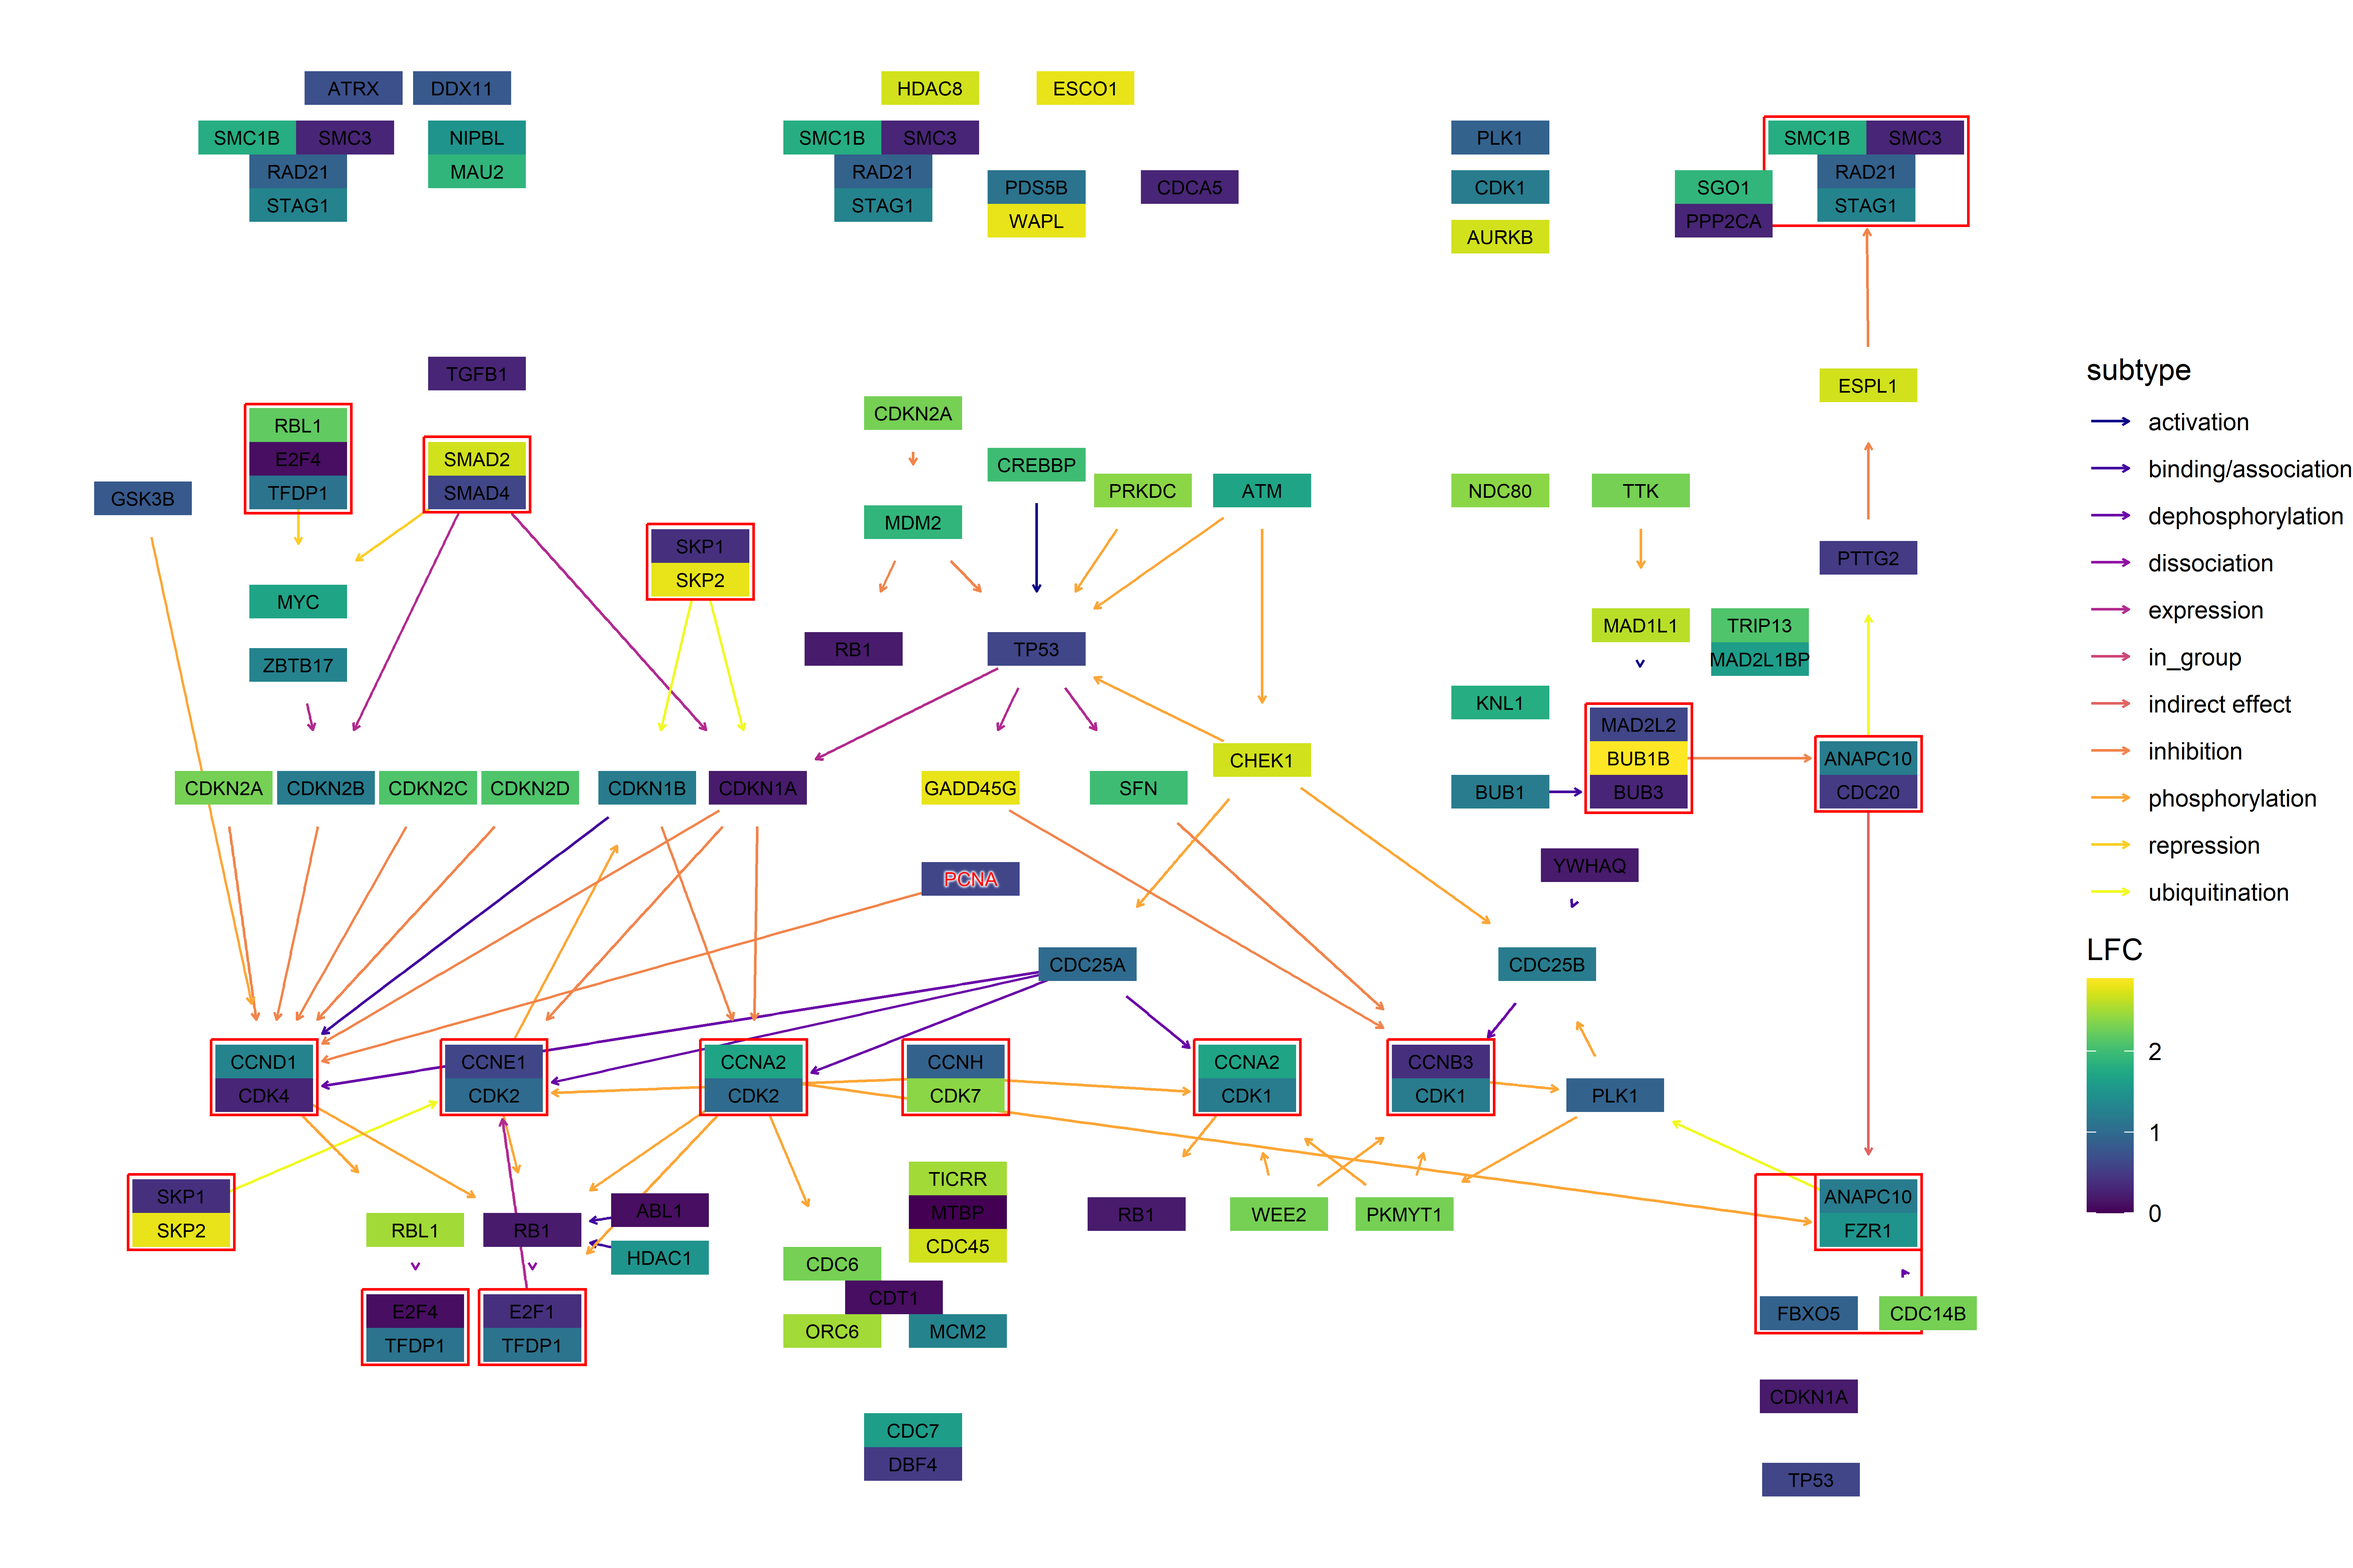
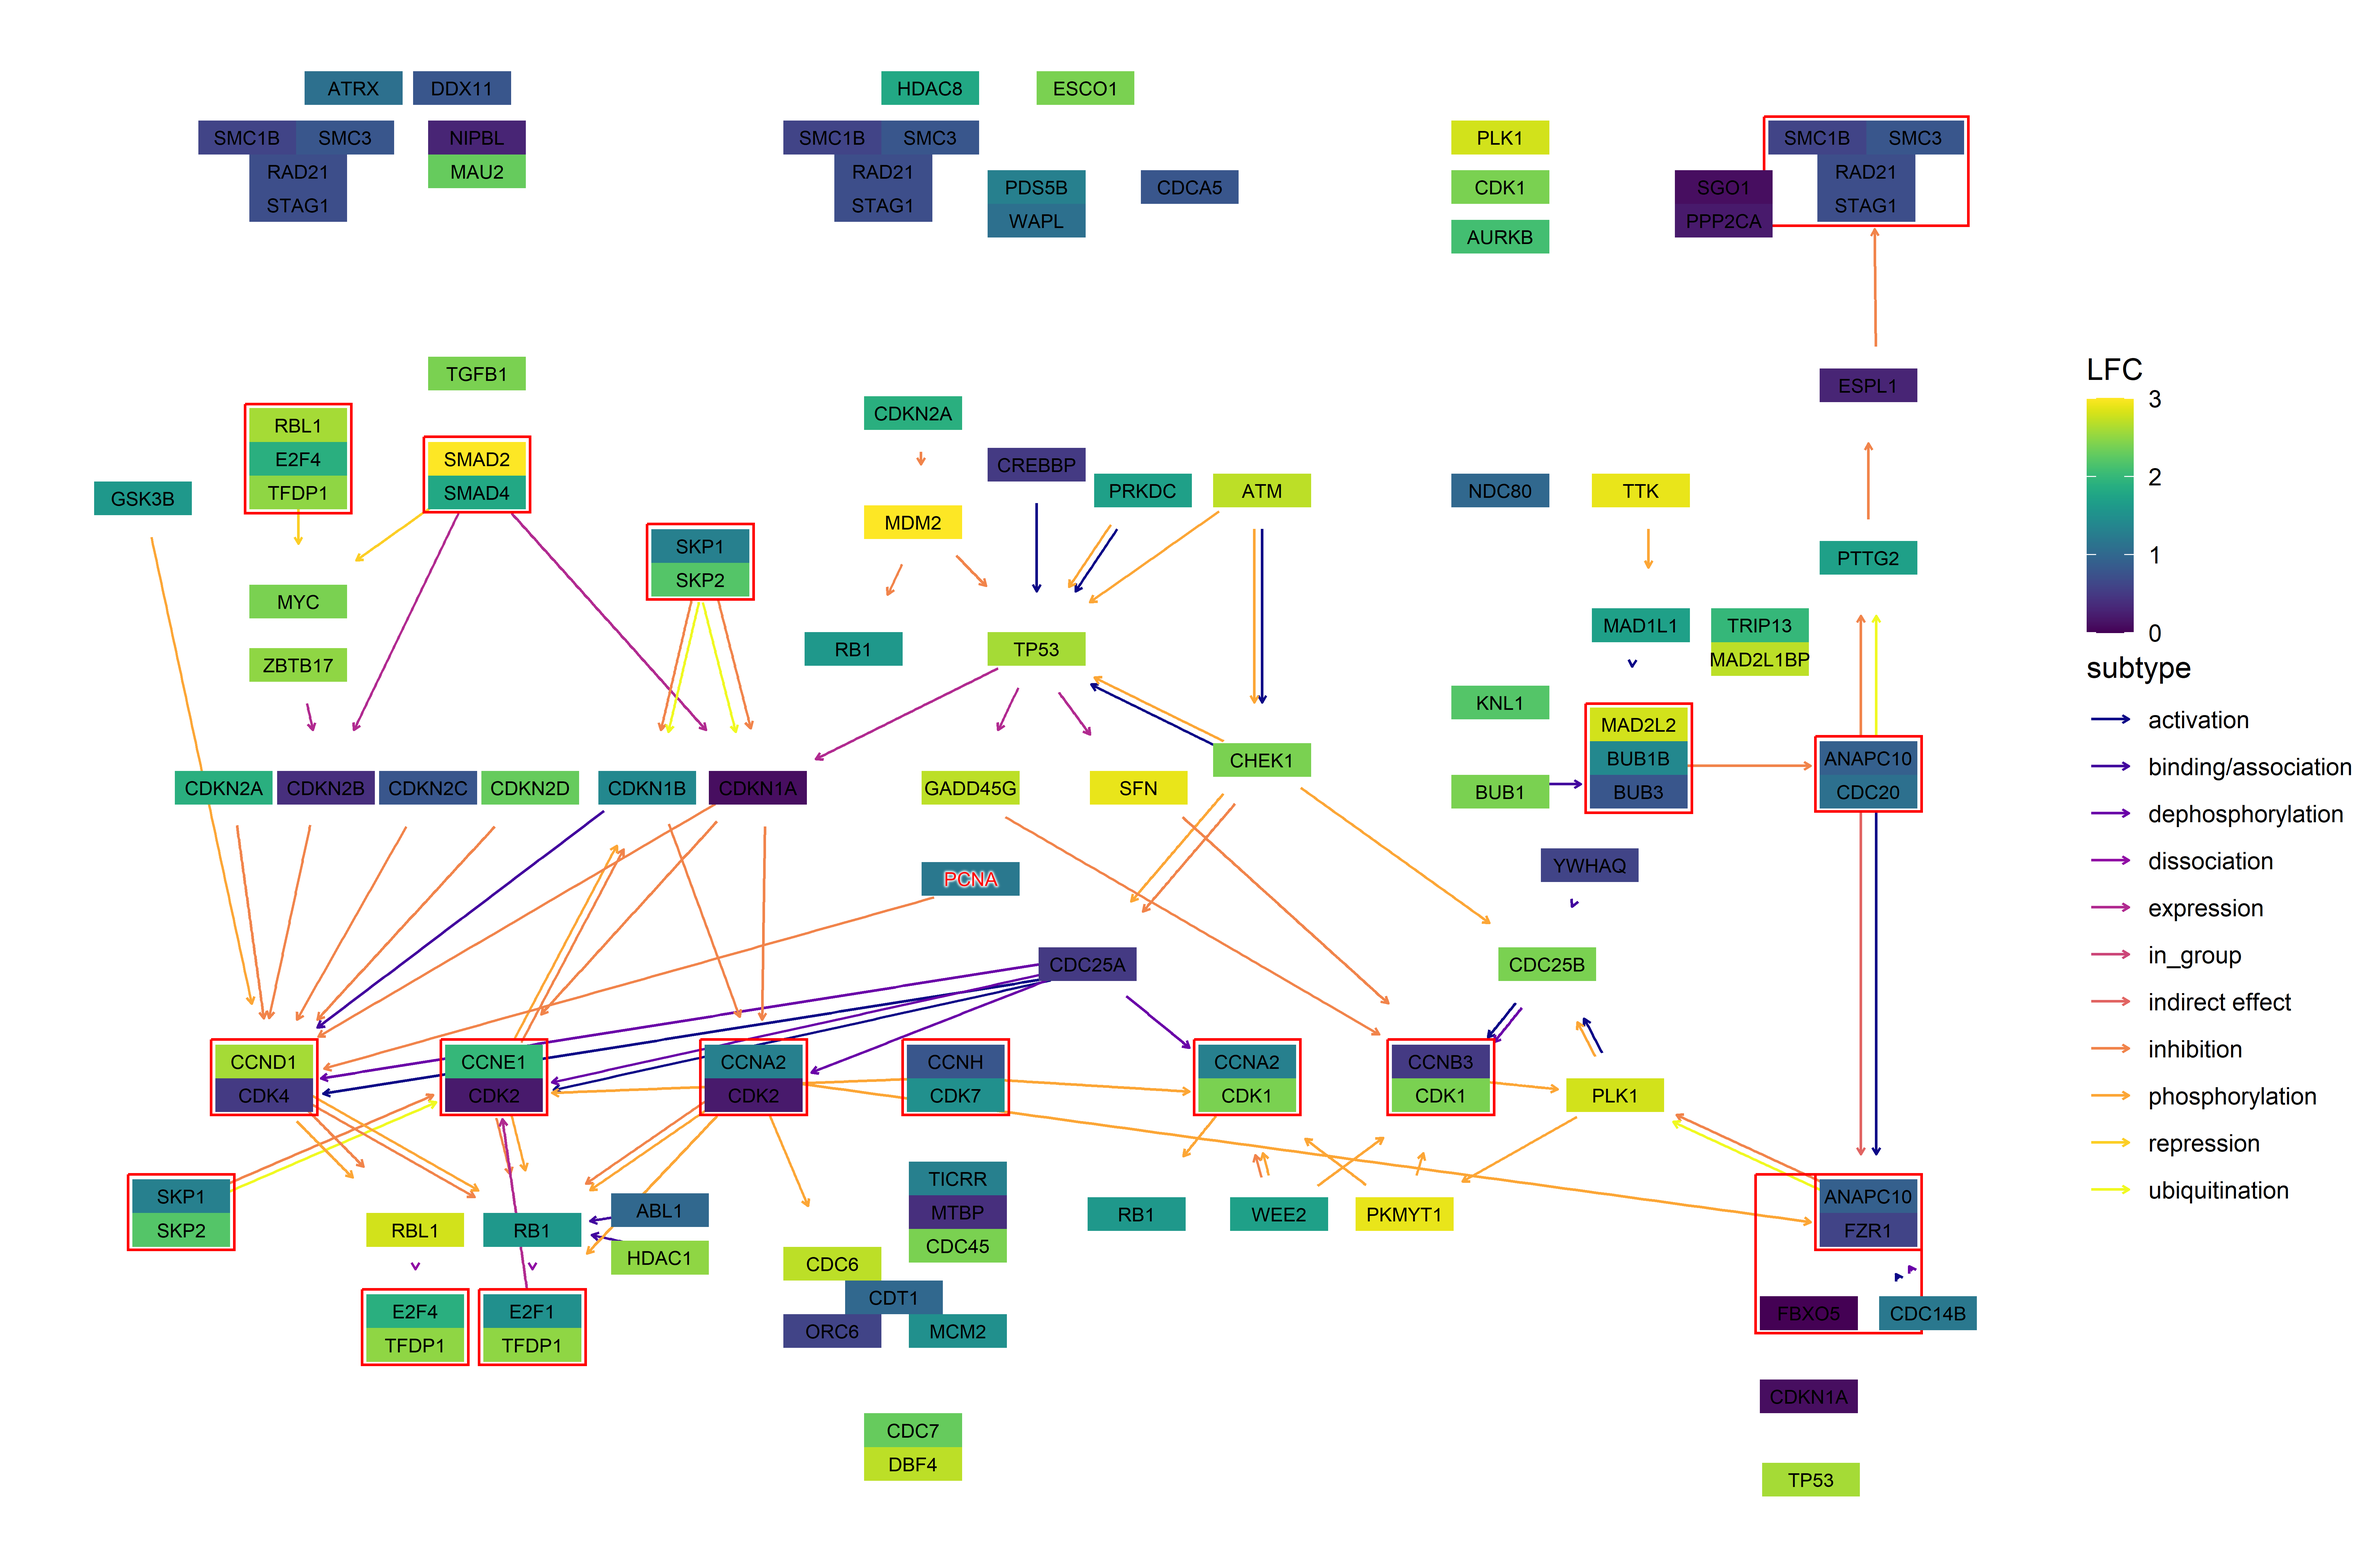
update README code

diff --git a/README.md b/README.md
@@ -83,7 +83,7 @@ names(pseudo_lfc) <- V(g)$name
 ggkegg("hsa04110",
        convert_org = c("pathway","hsa","ko"),
        numeric_attribute = pseudo_lfc)+
-  geom_edge_link(
+  geom_edge_parallel(
     aes(color=subtype),
     arrow = arrow(length = unit(1, 'mm')), 
     start_cap = square(1, 'cm'),
